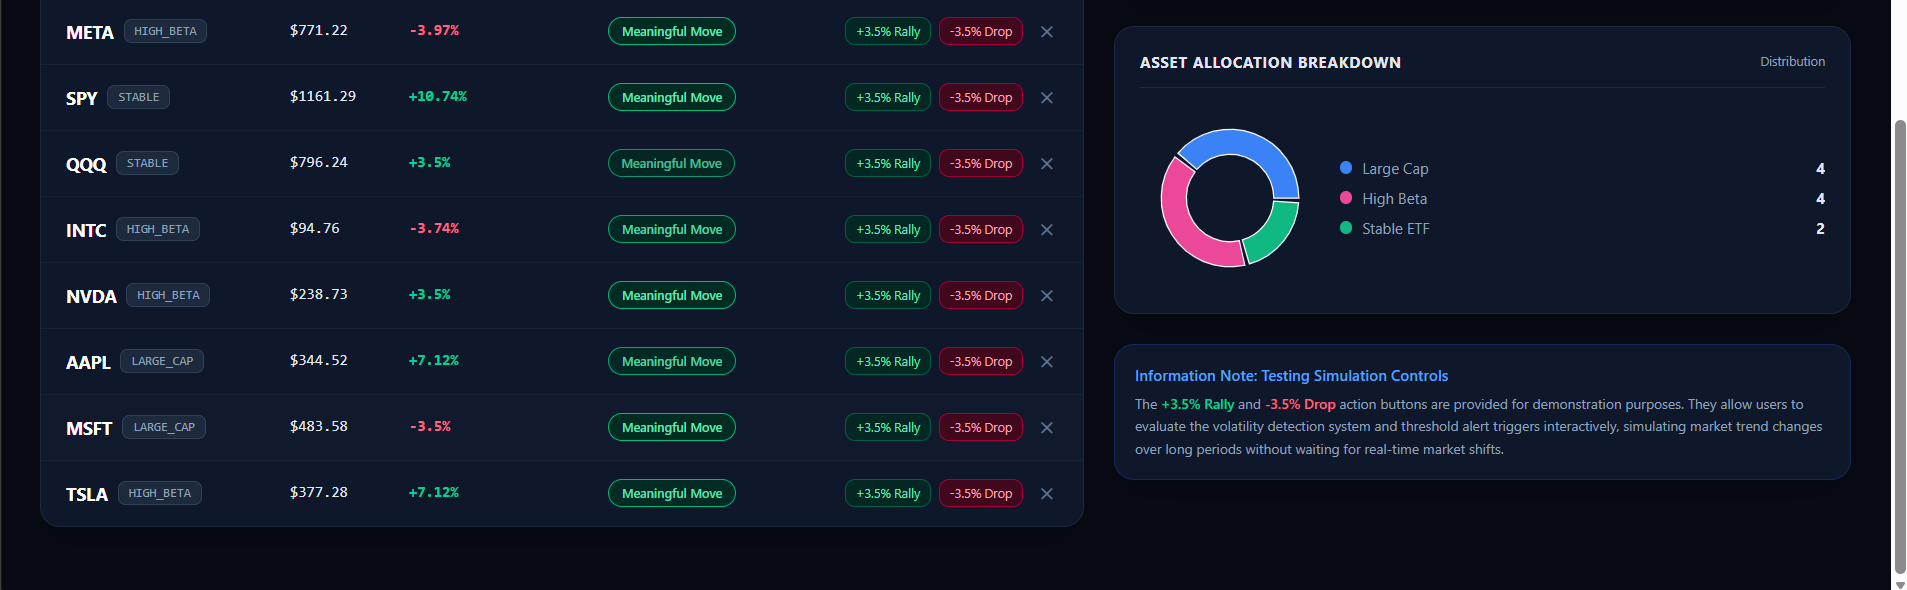
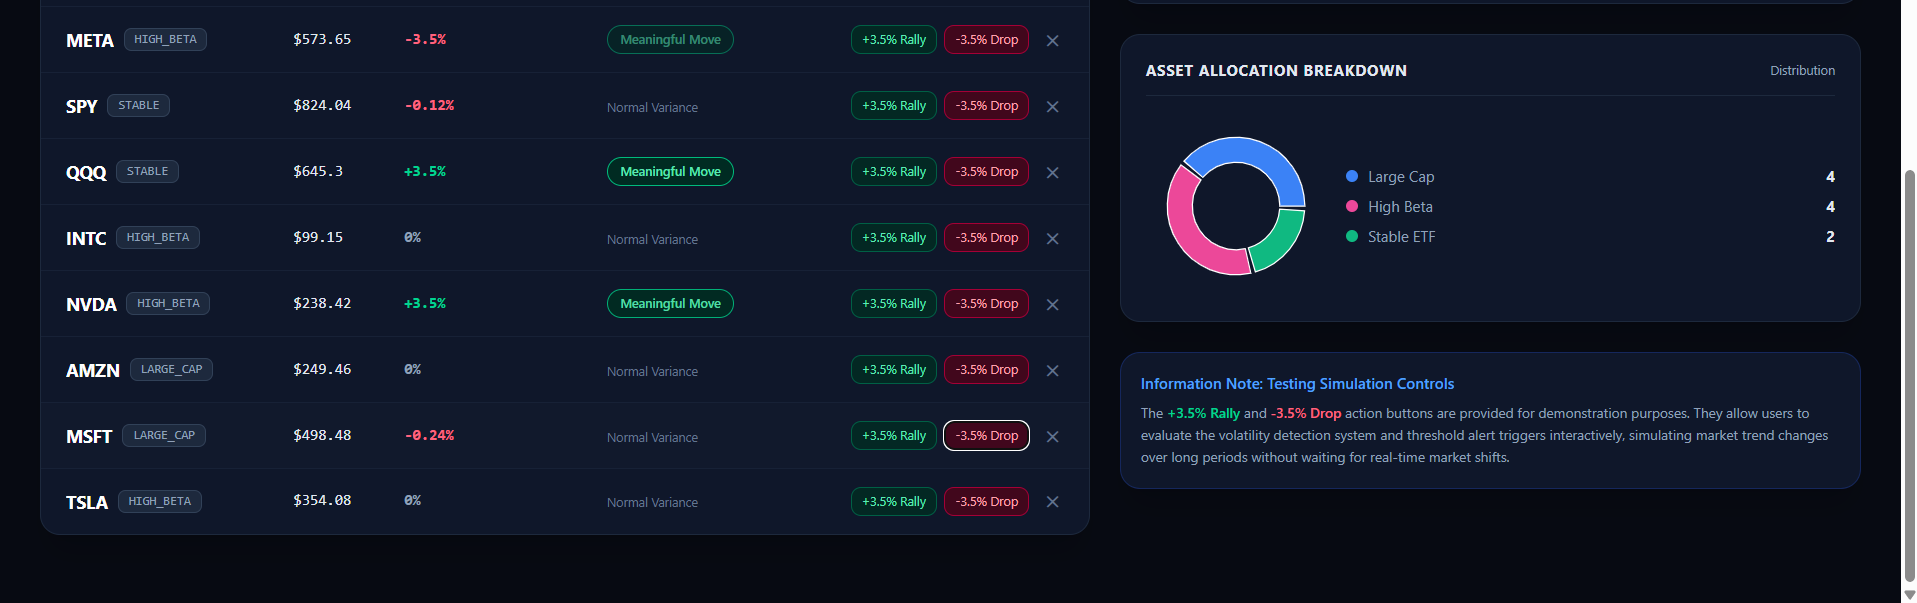
README.md

diff --git a/README.md b/README.md
@@ -2,7 +2,8 @@
 
 The **Smart Market Watchlist** is an end-to-end financial intelligence application built to solve a core market-tracking problem: surfacing meaningful asset price shifts relative to user baselines without getting lost in daily market noise.
 
-🔗 **Live Demo:** [https://my-app.vercel.app](https://my-app.vercel.app)
+🔗 **Live Demo:** [https://smart-market-watc-git-f3cb20-nivedithaa-lakshmanasamys-projects.vercel.app/](https://smart-market-watc-git-f3cb20-nivedithaa-lakshmanasamys-projects.vercel.app/)
+
 ⚙ **Backend API:** [https://smart-market-watchlist-6a1a.onrender.com](https://smart-market-watchlist-6a1a.onrender.com) 
 
 ---
